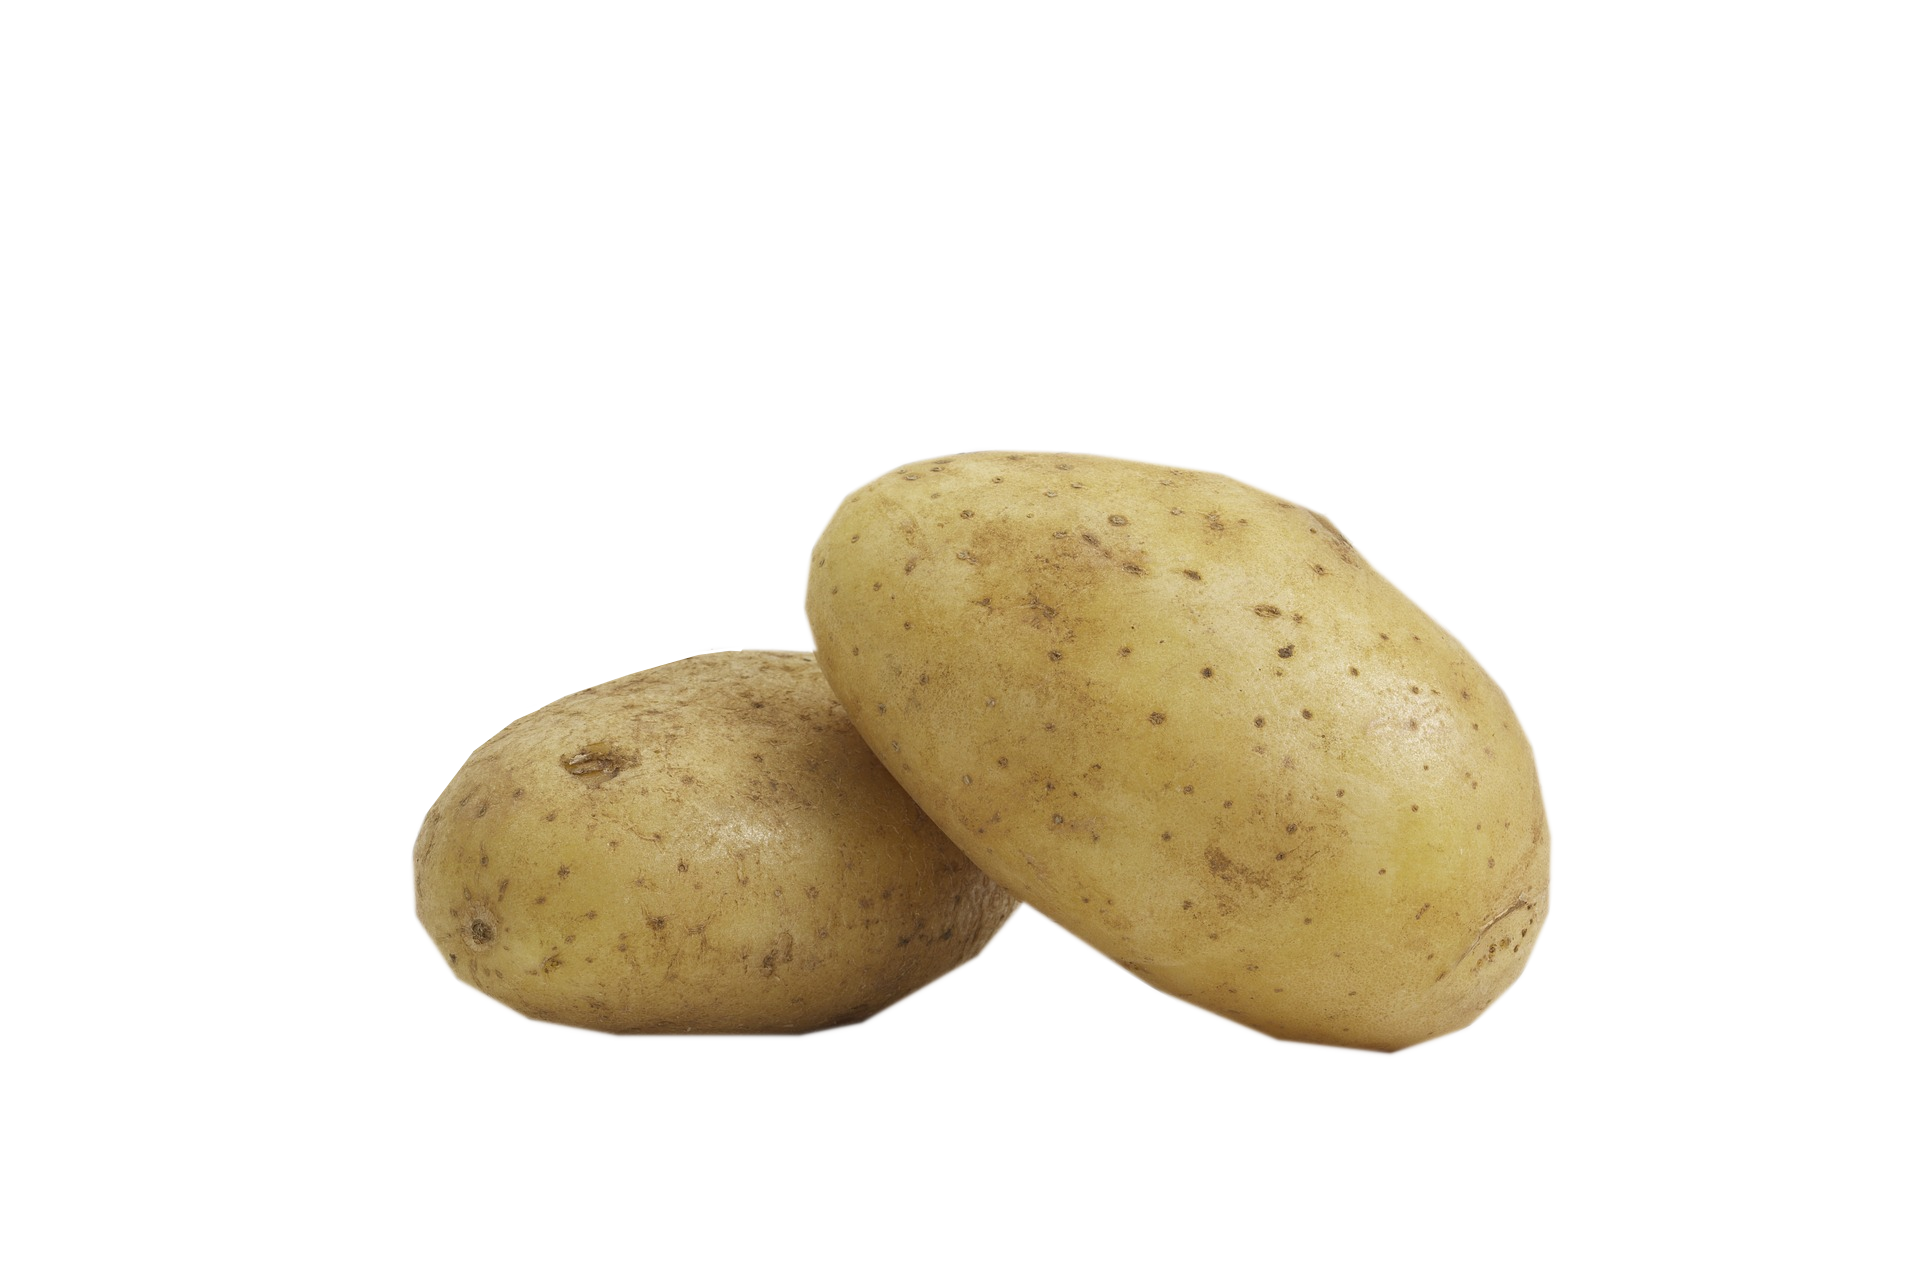
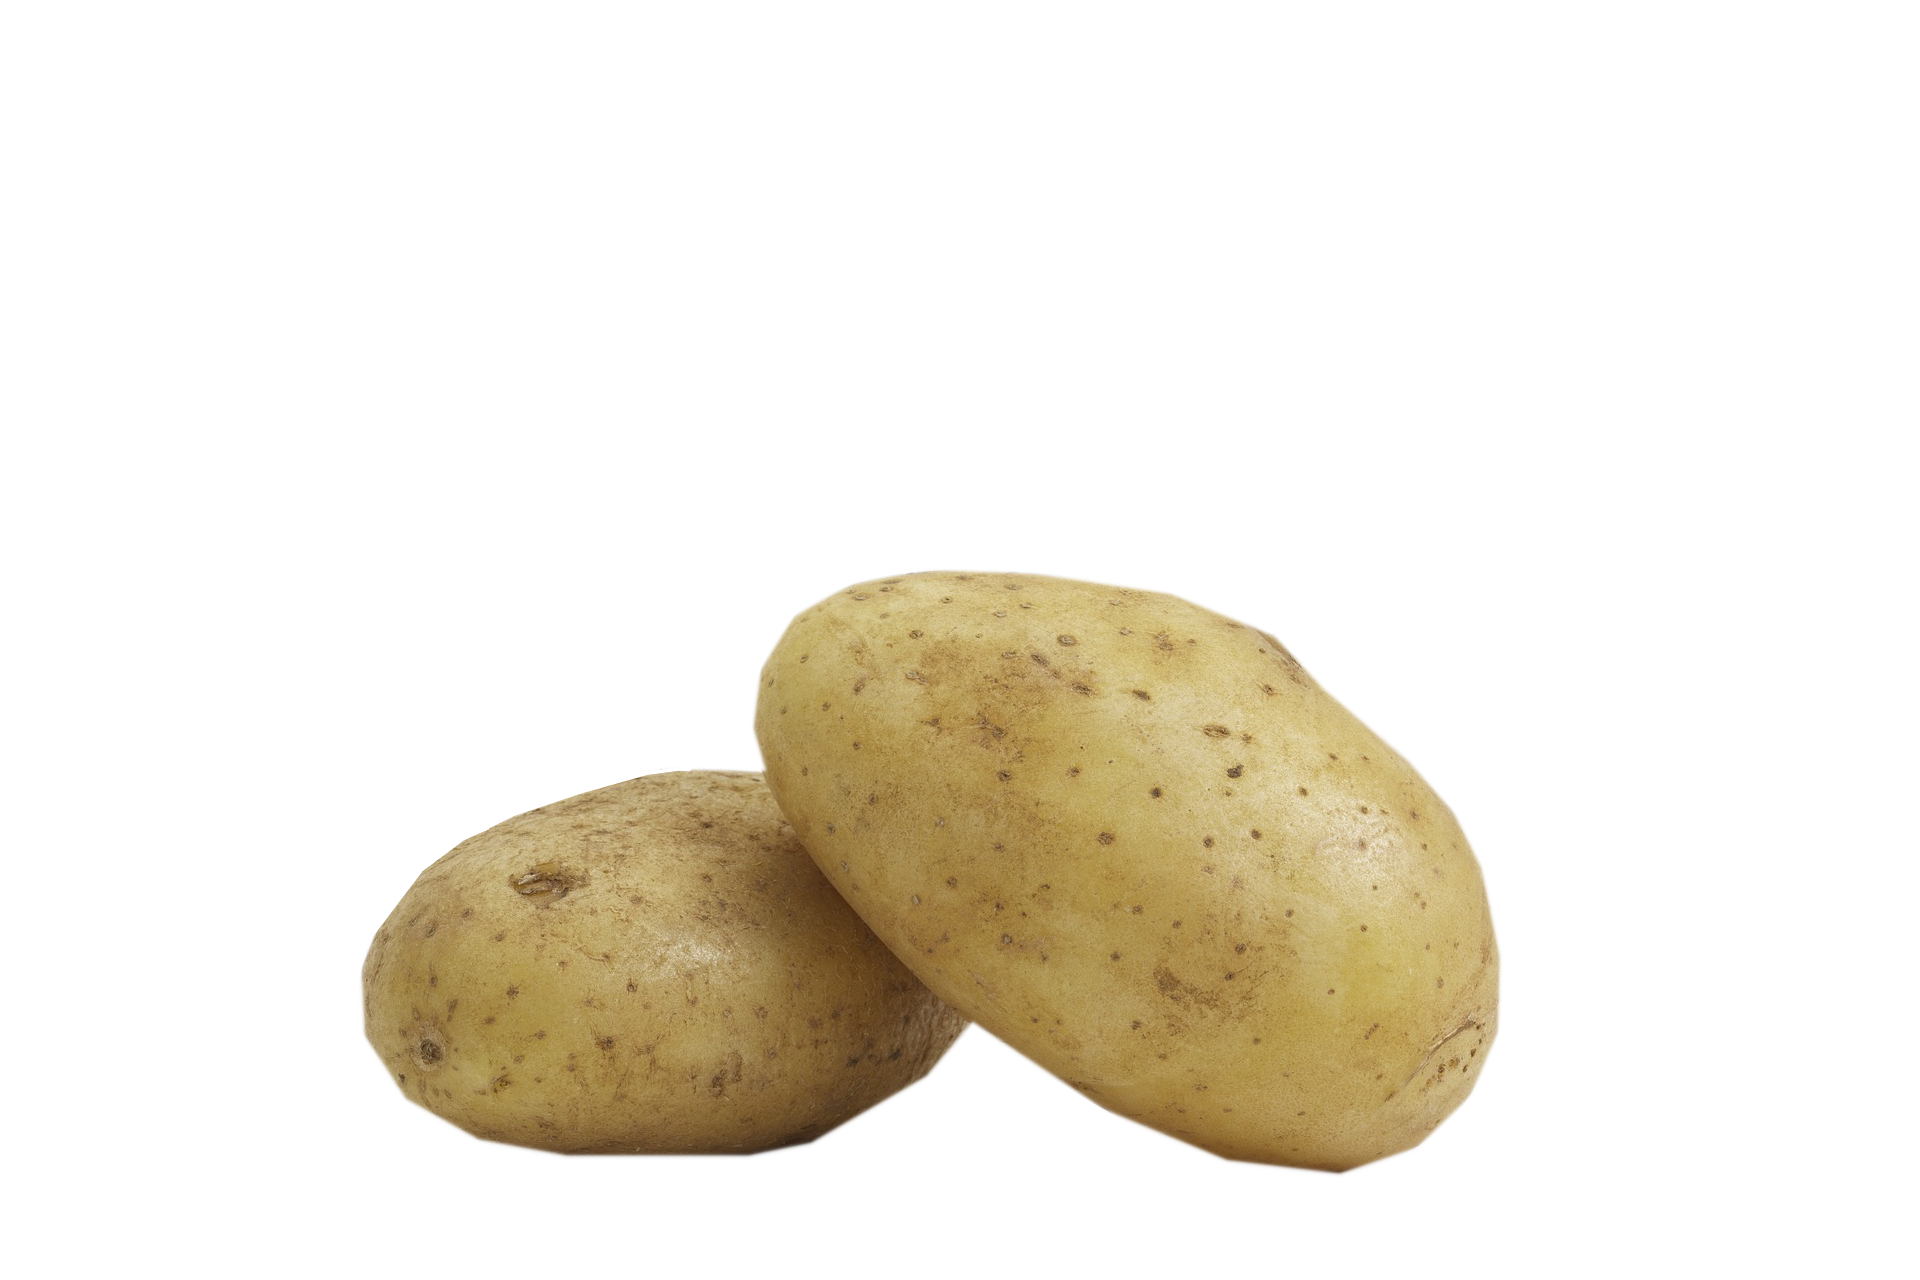
Move potato image lower

Changed region(s): [[0.1875, 0.3438, 0.8125, 0.9375]]

diff --git a/css/styles.css b/css/styles.css
@@ -60,10 +60,9 @@ a {
 
 .nav-hero {
   background-image: url('../images/potato.png'), linear-gradient(#ae957f, #c3aa94);
-  background-position: center 75%;
+  background-position: center 65%;
   background-repeat: no-repeat;
   background-size: contain;
-
   min-height: 100vh;
 }
 
